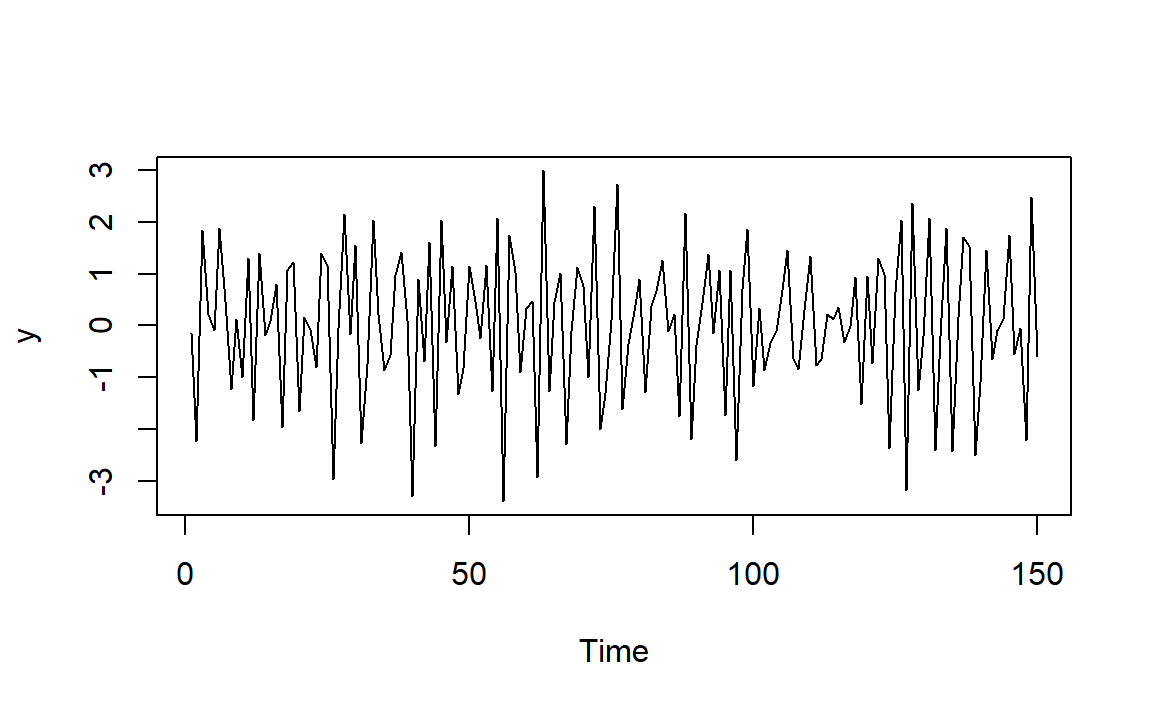
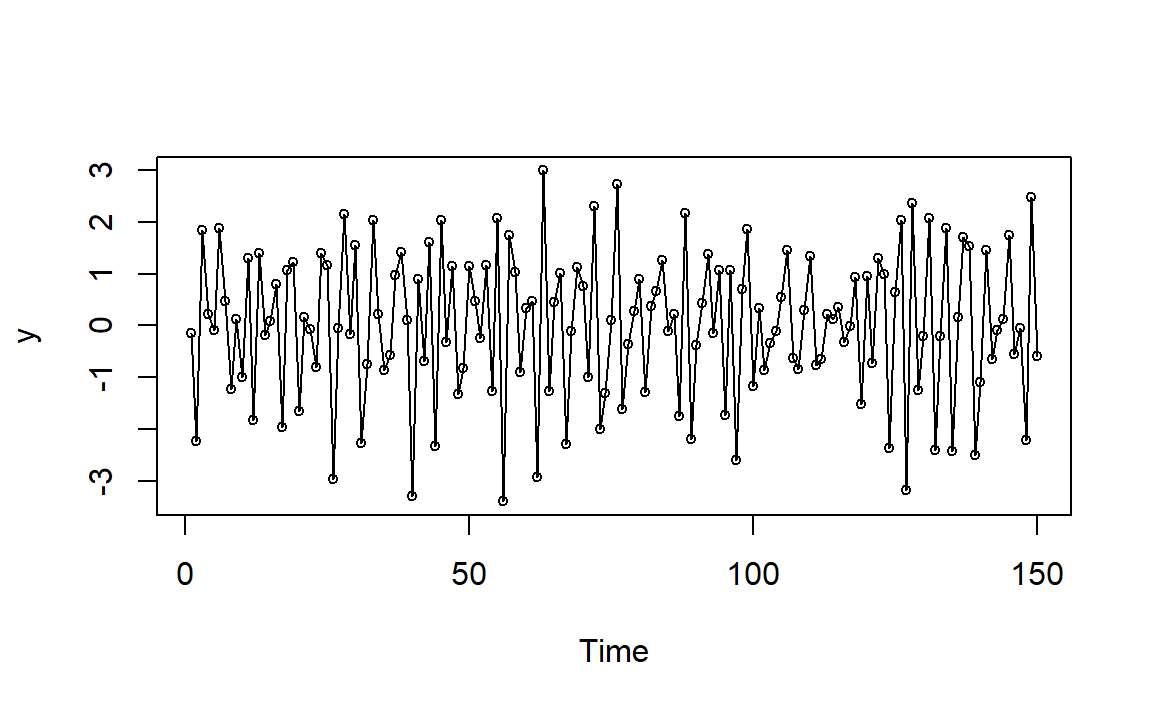
publish

diff --git a/docs/arma模型的一些图像.html b/docs/arma模型的一些图像.html
@@ -24,7 +24,7 @@
 <meta name="author" content="Huang" />
 
 
-<meta name="date" content="2020-11-22" />
+<meta name="date" content="2020-11-24" />
 
   <meta name="viewport" content="width=device-width, initial-scale=1" />
   <meta name="apple-mobile-web-app-capable" content="yes" />
@@ -148,6 +148,7 @@ code span.wa { color: #60a0b0; font-weight: bold; font-style: italic; } /* Warni
 <li class="chapter" data-level="1.3" data-path="arma模型的一些图像.html"><a href="arma模型的一些图像.html#arp过程"><i class="fa fa-check"></i><b>1.3</b> AR(p)过程</a>
 <ul>
 <li class="chapter" data-level="1.3.1" data-path="arma模型的一些图像.html"><a href="arma模型的一些图像.html#ar1"><i class="fa fa-check"></i><b>1.3.1</b> AR(1)</a></li>
+<li class="chapter" data-level="1.3.2" data-path="arma模型的一些图像.html"><a href="arma模型的一些图像.html#ar2"><i class="fa fa-check"></i><b>1.3.2</b> AR(2)</a></li>
 </ul></li>
 </ul></li>
 <li class="divider"></li>
@@ -181,7 +182,7 @@ code span.wa { color: #60a0b0; font-weight: bold; font-style: italic; } /* Warni
 Y_t = 0.7Y_{t-1}+e_t
 \]</span></p>
 <div class="sourceCode" id="cb2"><pre class="sourceCode r"><code class="sourceCode r"><span id="cb2-1"><a href="arma模型的一些图像.html#cb2-1"></a>y =<span class="st"> </span><span class="kw">arima.sim</span>(<span class="dt">model=</span><span class="kw">list</span>(<span class="dt">ar=</span><span class="kw">c</span>(<span class="fl">0.7</span>)), <span class="dt">n=</span><span class="dv">100</span>, <span class="dt">sd=</span><span class="fl">0.2</span>)</span>
-<span id="cb2-2"><a href="arma模型的一些图像.html#cb2-2"></a><span class="kw">plot</span>(y)</span></code></pre></div>
+<span id="cb2-2"><a href="arma模型的一些图像.html#cb2-2"></a><span class="kw">plot</span>(y,<span class="dt">type=</span><span class="st">&quot;o&quot;</span>,<span class="dt">cex=</span><span class="fl">0.7</span>)</span></code></pre></div>
 <p><img src="TSA-in-R_files/figure-html/unnamed-chunk-5-1.png" width="70%" style="display: block; margin: auto;" /></p>
 </div>
 <div id="maq过程" class="section level2" number="1.2">
@@ -223,7 +224,7 @@ Y_t = e_t+0.9 e_{t-1}
 这里的 <span class="math inline">\(\theta=-0.9\)</span>。</p>
 <p>模拟时间序列图：</p>
 <div class="sourceCode" id="cb4"><pre class="sourceCode r"><code class="sourceCode r"><span id="cb4-1"><a href="arma模型的一些图像.html#cb4-1"></a>y =<span class="st"> </span><span class="kw">arima.sim</span>(<span class="dt">model=</span><span class="kw">list</span>(<span class="dt">ma=</span><span class="kw">c</span>(<span class="fl">0.9</span>)), <span class="dt">n=</span><span class="dv">150</span>, <span class="dt">sd=</span><span class="dv">1</span>)</span>
-<span id="cb4-2"><a href="arma模型的一些图像.html#cb4-2"></a><span class="kw">plot</span>(y)</span></code></pre></div>
+<span id="cb4-2"><a href="arma模型的一些图像.html#cb4-2"></a><span class="kw">plot</span>(y,<span class="dt">type=</span><span class="st">&quot;o&quot;</span>,<span class="dt">cex=</span><span class="fl">0.7</span>)</span></code></pre></div>
 <div class="figure" style="text-align: center"><span id="fig:ma1-plot-1"></span>
 <img src="TSA-in-R_files/figure-html/ma1-plot-1-1.png" alt="MA(1)例1模拟时间序列图" width="70%" />
 <p class="caption">
@@ -250,7 +251,7 @@ Y_t = e_t-0.9 e_{t-1}
 <p>这里的 <span class="math inline">\(\theta=0.9\)</span>。</p>
 <p>模拟时间序列图：</p>
 <div class="sourceCode" id="cb6"><pre class="sourceCode r"><code class="sourceCode r"><span id="cb6-1"><a href="arma模型的一些图像.html#cb6-1"></a>y =<span class="st"> </span><span class="kw">arima.sim</span>(<span class="dt">model=</span><span class="kw">list</span>(<span class="dt">ma=</span><span class="kw">c</span>(<span class="op">-</span><span class="fl">0.9</span>)), <span class="dt">n=</span><span class="dv">150</span>, <span class="dt">sd=</span><span class="dv">1</span>)</span>
-<span id="cb6-2"><a href="arma模型的一些图像.html#cb6-2"></a><span class="kw">plot</span>(y)</span></code></pre></div>
+<span id="cb6-2"><a href="arma模型的一些图像.html#cb6-2"></a><span class="kw">plot</span>(y,<span class="dt">type=</span><span class="st">&quot;o&quot;</span>,<span class="dt">cex=</span><span class="fl">0.7</span>)</span></code></pre></div>
 <div class="figure" style="text-align: center"><span id="fig:ma1-plot-2"></span>
 <img src="TSA-in-R_files/figure-html/ma1-plot-2-1.png" alt="MA(1)例2模拟时间序列图" width="70%" />
 <p class="caption">
@@ -293,7 +294,7 @@ Y_t = e_t-e_{t-1}+0.6e_{t-2}
 <p>这里的 <span class="math inline">\(\theta_1=1,\theta_2=-0.6\)</span>。从而可以计算 <span class="math inline">\(\rho_1=-0.678,\rho_2=0.254\)</span>。</p>
 <p>模拟时间序列图：</p>
 <div class="sourceCode" id="cb8"><pre class="sourceCode r"><code class="sourceCode r"><span id="cb8-1"><a href="arma模型的一些图像.html#cb8-1"></a>y =<span class="st"> </span><span class="kw">arima.sim</span>(<span class="dt">model=</span><span class="kw">list</span>(<span class="dt">ma=</span><span class="kw">c</span>(<span class="op">-</span><span class="dv">1</span>,<span class="fl">0.6</span>)), <span class="dt">n=</span><span class="dv">150</span>, <span class="dt">sd=</span><span class="dv">1</span>)</span>
-<span id="cb8-2"><a href="arma模型的一些图像.html#cb8-2"></a><span class="kw">plot</span>(y)</span></code></pre></div>
+<span id="cb8-2"><a href="arma模型的一些图像.html#cb8-2"></a><span class="kw">plot</span>(y,<span class="dt">type=</span><span class="st">&quot;o&quot;</span>,<span class="dt">cex=</span><span class="fl">0.7</span>)</span></code></pre></div>
 <div class="figure" style="text-align: center"><span id="fig:ma2-plot-1"></span>
 <img src="TSA-in-R_files/figure-html/ma2-plot-1-1.png" alt="MA(2)例1模拟时间序列图" width="70%" />
 <p class="caption">
@@ -360,7 +361,119 @@ Y_t = \phi Y_{t-1}+e_t
 <blockquote>
 <p>关于上图中将数学符号跟变量结合在一起的做法，详见 <a href="https://blog.csdn.net/weixin_41929524/article/details/103610743" class="uri">https://blog.csdn.net/weixin_41929524/article/details/103610743</a>, <a href="https://stackoverflow.com/questions/15074127/use-expression-with-a-variable-r" class="uri">https://stackoverflow.com/questions/15074127/use-expression-with-a-variable-r</a></p>
 </blockquote>
+<div id="举例1-2" class="section level4" number="1.3.1.1">
+<h4><span class="header-section-number">1.3.1.1</span> 举例1</h4>
+<p><span class="math display">\[
+Y_t = 0.9Y_{t-1}+e_t
+\]</span></p>
+<p>这里 <span class="math inline">\(\phi=0.9\)</span>。</p>
+<p>模拟时间序列图：</p>
+<div class="sourceCode" id="cb11"><pre class="sourceCode r"><code class="sourceCode r"><span id="cb11-1"><a href="arma模型的一些图像.html#cb11-1"></a>y =<span class="st"> </span><span class="kw">arima.sim</span>(<span class="dt">model=</span><span class="kw">list</span>(<span class="dt">ar=</span><span class="kw">c</span>(<span class="fl">0.9</span>)), <span class="dt">n=</span><span class="dv">150</span>, <span class="dt">sd=</span><span class="dv">1</span>)</span>
+<span id="cb11-2"><a href="arma模型的一些图像.html#cb11-2"></a><span class="kw">plot</span>(y,<span class="dt">type=</span><span class="st">&quot;o&quot;</span>,<span class="dt">cex=</span><span class="fl">0.7</span>)</span></code></pre></div>
+<div class="figure" style="text-align: center"><span id="fig:ar1-plot-1"></span>
+<img src="TSA-in-R_files/figure-html/ar1-plot-1-1.png" alt="AR(1)例1模拟时间序列图" width="70%" />
+<p class="caption">
+图1.6: AR(1)例1模拟时间序列图
+</p>
+</div>
+<p>由图<a href="arma模型的一些图像.html#fig:ar1-plot-1">1.6</a>可以看到，图像比较平滑，看起来像是存在某种趋势（这当然是不存在的，均值恒为0），这是因为时间序列由于多期的强相关性而存在大量惯性变化。</p>
+</div>
+<div id="举例2-1" class="section level4" number="1.3.1.2">
+<h4><span class="header-section-number">1.3.1.2</span> 举例2</h4>
+<p><span class="math display">\[
+Y_t = -0.5Y_{t-1}+e_t
+\]</span>
+这里 <span class="math inline">\(\phi=-0.5\)</span>。</p>
+<p>模拟时间序列图：</p>
+<div class="sourceCode" id="cb12"><pre class="sourceCode r"><code class="sourceCode r"><span id="cb12-1"><a href="arma模型的一些图像.html#cb12-1"></a>y =<span class="st"> </span><span class="kw">arima.sim</span>(<span class="dt">model=</span><span class="kw">list</span>(<span class="dt">ar=</span><span class="kw">c</span>(<span class="op">-</span><span class="fl">0.5</span>)), <span class="dt">n=</span><span class="dv">150</span>, <span class="dt">sd=</span><span class="dv">1</span>)</span>
+<span id="cb12-2"><a href="arma模型的一些图像.html#cb12-2"></a><span class="kw">plot</span>(y,<span class="dt">type=</span><span class="st">&quot;o&quot;</span>,<span class="dt">cex=</span><span class="fl">0.7</span>)</span></code></pre></div>
+<div class="figure" style="text-align: center"><span id="fig:ar1-plot-2"></span>
+<img src="TSA-in-R_files/figure-html/ar1-plot-2-1.png" alt="AR(1)例2模拟时间序列图" width="70%" />
+<p class="caption">
+图1.7: AR(1)例2模拟时间序列图
+</p>
+</div>
+<p>这个锯齿状就比较好理解了，由于自相关系数的正负交替指数递减，并且先负后正。</p>
+</div>
+</div>
+<div id="ar2" class="section level3" number="1.3.2">
+<h3><span class="header-section-number">1.3.2</span> AR(2)</h3>
+<p>模型表达：
+<span class="math display">\[
+Y_t = \phi_1 Y_{t-1}+\phi_2 Y_{t-2}+e_t
+\]</span></p>
+<p>统计特性：</p>
+<p>由Yule-Walker方程
+<span class="math display">\[
+\rho_k = \phi_1\rho_{k-1}+\phi_2\rho_{k-2},\quad k\ge1
+\]</span>
+导出：
+<span class="math display">\[
+\rho_1=\frac{\phi_1}{1-\phi_2},\quad \rho_2=\frac{\phi_2(1-\phi_2)+\phi_1^2}{1-\phi_2}
+\]</span></p>
+<p>不同<span class="math inline">\(\phi_1,\phi_2\)</span>下AR(1)的自相关函数：</p>
+<div class="sourceCode" id="cb13"><pre class="sourceCode r"><code class="sourceCode r"><span id="cb13-1"><a href="arma模型的一些图像.html#cb13-1"></a>opar &lt;-<span class="st"> </span><span class="kw">par</span>(<span class="dt">no.readonly =</span> T)</span>
+<span id="cb13-2"><a href="arma模型的一些图像.html#cb13-2"></a><span class="kw">par</span>(<span class="dt">mfrow=</span><span class="kw">c</span>(<span class="dv">2</span>,<span class="dv">2</span>))</span>
+<span id="cb13-3"><a href="arma模型的一些图像.html#cb13-3"></a>p &lt;-<span class="st"> </span><span class="kw">c</span>(<span class="fl">0.5</span>,<span class="fl">0.25</span>,<span class="fl">1.0</span>,<span class="op">-</span><span class="fl">0.25</span>,<span class="fl">1.5</span>,<span class="op">-</span><span class="fl">0.75</span>,<span class="fl">1.0</span>,<span class="op">-</span><span class="fl">0.6</span>)</span>
+<span id="cb13-4"><a href="arma模型的一些图像.html#cb13-4"></a><span class="cf">for</span>(i <span class="cf">in</span> <span class="dv">1</span><span class="op">:</span><span class="dv">4</span>) {</span>
+<span id="cb13-5"><a href="arma模型的一些图像.html#cb13-5"></a>  <span class="co"># 将数学符号跟变量结合在一起</span></span>
+<span id="cb13-6"><a href="arma模型的一些图像.html#cb13-6"></a>  m &lt;-<span class="st"> </span><span class="kw">bquote</span>(phi[<span class="dv">1</span>]<span class="op">~</span><span class="st">&quot;=&quot;</span><span class="op">~</span>.(p[<span class="dv">2</span><span class="op">*</span>i<span class="dv">-1</span>])<span class="op">~</span>phi[<span class="dv">2</span>]<span class="op">~</span><span class="st">&quot;=&quot;</span><span class="op">~</span>.(p[<span class="dv">2</span><span class="op">*</span>i]))  </span>
+<span id="cb13-7"><a href="arma模型的一些图像.html#cb13-7"></a>  <span class="co"># 生成理论自相关函数</span></span>
+<span id="cb13-8"><a href="arma模型的一些图像.html#cb13-8"></a>  y &lt;-<span class="st"> </span><span class="kw">ARMAacf</span>(<span class="dt">ar =</span> <span class="kw">c</span>(p[<span class="dv">2</span><span class="op">*</span>i<span class="dv">-1</span>],p[<span class="dv">2</span><span class="op">*</span>i]),<span class="dt">lag.max =</span> <span class="dv">12</span>)[<span class="op">-</span><span class="dv">1</span>]  </span>
+<span id="cb13-9"><a href="arma模型的一些图像.html#cb13-9"></a>  <span class="kw">plot</span>(y,<span class="dt">xlab =</span> <span class="st">&quot;滞后&quot;</span>,<span class="dt">ylab =</span> <span class="st">&quot;自相关函数&quot;</span>,</span>
+<span id="cb13-10"><a href="arma模型的一些图像.html#cb13-10"></a>       <span class="dt">main =</span> m,<span class="dt">type=</span><span class="st">&quot;h&quot;</span>)</span>
+<span id="cb13-11"><a href="arma模型的一些图像.html#cb13-11"></a>  <span class="kw">points</span>(y,<span class="dt">pch=</span><span class="dv">20</span>)</span>
+<span id="cb13-12"><a href="arma模型的一些图像.html#cb13-12"></a>  <span class="kw">abline</span>(<span class="dt">h =</span> <span class="dv">0</span>)</span>
+<span id="cb13-13"><a href="arma模型的一些图像.html#cb13-13"></a>}</span>
+<span id="cb13-14"><a href="arma模型的一些图像.html#cb13-14"></a><span class="kw">par</span>(opar)</span></code></pre></div>
+<div class="figure" style="text-align: center"><span id="fig:ar1-rho-2"></span>
+<img src="TSA-in-R_files/figure-html/ar1-rho-2-1.png" alt="不同phi下AR(2)的自相关函数" width="80%" />
+<p class="caption">
+图1.8: 不同phi下AR(2)的自相关函数
+</p>
+</div>
+<p>上面所表示的AR(2)模型均满足平稳性:
+<span class="math display">\[
+\phi_1+\phi_2&lt;1,\quad \phi_2-\phi_1&lt;1,\quad |\phi_2|&lt;1
+\]</span></p>
+<p>类似于图<a href="arma模型的一些图像.html#fig:ar1-rho-1">1.5</a>，在实数特征根（<span class="math inline">\(\phi^2_1+4\phi_2\ge0\)</span>）下图像依旧是呈指数递减，在复数特征根下图像呈阻尼正弦波动曲线。</p>
+<blockquote>
+<p>图<a href="arma模型的一些图像.html#fig:ar1-rho-1">1.5</a>采用自相关系数的具体公式进行计算绘制，经书本提醒，图<a href="arma模型的一些图像.html#fig:ar1-rho-2">1.8</a>使用函数<code>ARMAacf</code>函数计算理论自相关函数。</p>
+</blockquote>
+<div id="举例1-3" class="section level4" number="1.3.2.1">
+<h4><span class="header-section-number">1.3.2.1</span> 举例1</h4>
+<p><span class="math display">\[
+Y_t = 0.5 Y_{t-1}+0.25 Y_{t-2}+e_t
+\]</span></p>
+<p>这里 <span class="math inline">\(\phi_1=0.5,\phi_2=0.25\)</span>。</p>
+<p>模拟时间序列图：</p>
+<div class="sourceCode" id="cb14"><pre class="sourceCode r"><code class="sourceCode r"><span id="cb14-1"><a href="arma模型的一些图像.html#cb14-1"></a>y =<span class="st"> </span><span class="kw">arima.sim</span>(<span class="dt">model=</span><span class="kw">list</span>(<span class="dt">ar=</span><span class="kw">c</span>(<span class="fl">0.5</span>,<span class="fl">0.25</span>)), <span class="dt">n=</span><span class="dv">150</span>, <span class="dt">sd=</span><span class="dv">1</span>)</span>
+<span id="cb14-2"><a href="arma模型的一些图像.html#cb14-2"></a><span class="kw">plot</span>(y,<span class="dt">type=</span><span class="st">&quot;o&quot;</span>,<span class="dt">cex=</span><span class="fl">0.7</span>)</span></code></pre></div>
+<div class="figure" style="text-align: center"><span id="fig:ar2-plot-1"></span>
+<img src="TSA-in-R_files/figure-html/ar2-plot-1-1.png" alt="AR(2)例1模拟时间序列图" width="70%" />
+<p class="caption">
+图1.9: AR(2)例1模拟时间序列图
+</p>
+</div>
+<p>与图像<a href="arma模型的一些图像.html#fig:ar1-plot-1">1.6</a>对比一下。</p>
+</div>
+<div id="举例2-2" class="section level4" number="1.3.2.2">
+<h4><span class="header-section-number">1.3.2.2</span> 举例2</h4>
+<p><span class="math display">\[
+Y_t = 1.5 Y_{t-1}-0.75 Y_{t-2}+e_t
+\]</span></p>
+<p>这里 <span class="math inline">\(\phi_1=1.5,\phi_2=-0.75\)</span>。</p>
+<p>模拟时间序列图：</p>
+<div class="sourceCode" id="cb15"><pre class="sourceCode r"><code class="sourceCode r"><span id="cb15-1"><a href="arma模型的一些图像.html#cb15-1"></a>y =<span class="st"> </span><span class="kw">arima.sim</span>(<span class="dt">model=</span><span class="kw">list</span>(<span class="dt">ar=</span><span class="kw">c</span>(<span class="fl">1.5</span>,<span class="op">-</span><span class="fl">0.75</span>)), <span class="dt">n=</span><span class="dv">200</span>, <span class="dt">sd=</span><span class="dv">1</span>)</span>
+<span id="cb15-2"><a href="arma模型的一些图像.html#cb15-2"></a><span class="kw">plot</span>(y,<span class="dt">type=</span><span class="st">&quot;o&quot;</span>,<span class="dt">cex=</span><span class="fl">0.7</span>)</span></code></pre></div>
+<div class="figure" style="text-align: center"><span id="fig:ar2-plot-2"></span>
+<img src="TSA-in-R_files/figure-html/ar2-plot-2-1.png" alt="AR(2)例2模拟时间序列图" width="70%" />
+<p class="caption">
+图1.10: AR(2)例2模拟时间序列图
+</p>
+</div>
 
+</div>
 </div>
 </div>
 </div>

diff --git a/docs/index.html b/docs/index.html
@@ -24,7 +24,7 @@
 <meta name="author" content="Huang" />
 
 
-<meta name="date" content="2020-11-22" />
+<meta name="date" content="2020-11-24" />
 
   <meta name="viewport" content="width=device-width, initial-scale=1" />
   <meta name="apple-mobile-web-app-capable" content="yes" />
@@ -148,6 +148,7 @@ code span.wa { color: #60a0b0; font-weight: bold; font-style: italic; } /* Warni
 <li class="chapter" data-level="1.3" data-path="arma模型的一些图像.html"><a href="arma模型的一些图像.html#arp过程"><i class="fa fa-check"></i><b>1.3</b> AR(p)过程</a>
 <ul>
 <li class="chapter" data-level="1.3.1" data-path="arma模型的一些图像.html"><a href="arma模型的一些图像.html#ar1"><i class="fa fa-check"></i><b>1.3.1</b> AR(1)</a></li>
+<li class="chapter" data-level="1.3.2" data-path="arma模型的一些图像.html"><a href="arma模型的一些图像.html#ar2"><i class="fa fa-check"></i><b>1.3.2</b> AR(2)</a></li>
 </ul></li>
 </ul></li>
 <li class="divider"></li>
@@ -173,7 +174,7 @@ code span.wa { color: #60a0b0; font-weight: bold; font-style: italic; } /* Warni
 <div id="header">
 <h1 class="title">TSA in R 学习笔记</h1>
 <p class="author"><em>Huang</em></p>
-<p class="date"><em>2020-11-22</em></p>
+<p class="date"><em>2020-11-24</em></p>
 </div>
 <div id="背景" class="section level1 unnumbered" number="">
 <h1>背景</h1>
